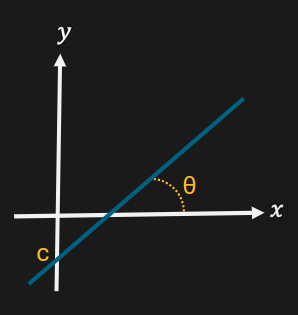
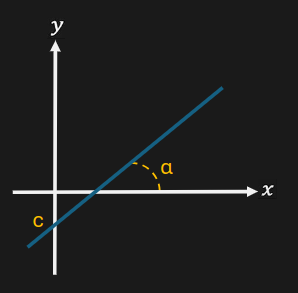
final

diff --git a/src/index.md b/src/index.md
@@ -38,19 +38,47 @@ Uma possível solução seria detectar as linhas presentes nessas bordas. A part
 
 ## Compreendendo a ideia: o pulo do gato!
 
-Para compreender como detectar retas em uma imagem, é útil revisitar o seu conceito matemático. Uma reta pode ser representada pela equação $y=mx+c$, onde $y$ e $x$ representam as coordenadas de um ponto na reta, $m$ é o coeficiente angular $\tan{(\theta)}$, e $c$ é o coeficiente linear (indicando onde ela intercepta o eixo $y$).
+Para compreender como detectar retas em uma imagem, é útil revisitar o seu conceito matemático. Uma reta pode ser representada pela equação $y=mx+c$, onde $y$ e $x$ representam as coordenadas de um ponto na reta, $m$ é o coeficiente angular $\tan{(\alpha)}$, e $c$ é o coeficiente linear (indicando onde ela intercepta o eixo $y$).
 
 ![](equacao1grau.png)
 
 Essa equação nos capacita a descrever qualquer reta (ou quase todas) em um plano cartesiano, o que se revela especialmente útil em imagens, já que uma imagem digital geralmente é representada por uma matriz, ou seja, um plano cartesiano, no qual cada pixel (ponto) possui coordenadas $x$ e $y$.
+
+
+??? Checkpoint
+Ter o conceito de retas e como representa-las em um plano cartesiano é especialmente útil na Transformada de Hough. Represente uma reta no plano cartesiano cujo os parâmetros $m$ e $c$ são 2 e -1, respectivamente.
+
+![](planocartesiano.png)
+
+::: Gabarito
+
+
+![](planocartesianoresposta.png)
+
+:::
+???
+
+??? Checkpoint
+
+Agora faça o inverso, tendo a reta a abaixo, determine os parâmetros $m$ e $c$.
+
+![](planocartesianopergunta.png)
+
+::: Gabarito
+
+$m=-0.75$
+
+$c=2$ 
+ 
+:::
+???
+
 
 Tá mas, por que isso é últil na Transformada de Hough? E antes disso, no que consiste uma transformada?
 
 Uma transformada basicamente consiste em passar uma função matemática de um domínio para outro. De maneira mais simplória, **uma transformada é um jeito de olhar para as coisas de uma nova perspectiva**. Imagine que você tem uma função (como uma equação matemática) que descreve algo em um espaço, como pontos em uma imagem. Agora, aplicar uma transformada significa pegar essa função e mudar a forma como a representamos, levando-a para um novo espaço. Isso nos permite ver coisas que talvez não fossem óbvias na forma original.
 
 A transformada de Hough faz exatamente isso! Mas com um objetivo específico: **encontrar padrões lineares em uma imagem**, como formas geométricas (no nosso caso, retas). Em vez de olhar diretamente para os pixels da imagem, a transformada de Hough mapeia esses pixels para um espaço de parâmetros, passando de $y=mx+c$ para $c=-mx+y$, onde podemos identificar padrões lineares mais facilmente.
-
-
 
 
 ??? Checkpoint
@@ -65,11 +93,11 @@ Infinitas retas passam por um ponto no plano cartesiano.
 :::
 ???
 
-
+Agora que relembramos que infitas retas passam por um ponto no plano cartesiano, vamos tentar representar elas em um novo espaço, que seja mais fácil identificar padrões e recorrências entre retas de uma imagem. A ideia do Espaço de Hough é utilizar um plano cartesiano com os parâmetros $m$ e $c$, os quais são as abissas e ordenadas, respectivamente. Para fazer essa passagem utilizamos a equação parametrizada $c=-mx+y$ citada anteriormente.
 
 
 ??? Checkpoint
-Escolha arbitrariamente, 3 retas que passam pelo ponto (2,1) e, com os parâmetros da respectiva reta ($m$, $c$), represente-a como um ponto no domínio da transformada.
+Escolha arbitrariamente, 3 retas que passam pelo ponto (2,1) e, com os parâmetros da respectiva reta ($m$, $c$), represente-a como um ponto no novo espaço.
 
 ![](graficos/ex2.png)
 
@@ -95,7 +123,15 @@ Agora represente as infinitas retas que passam pelo pontono (2,1) no domínio da
 :::
 ???
 
-Okay, espero que tenha ficado claro o que um representa no outro e vice-versa, mas onde identificamos os padrões que a transformada promete?
+Okay, vamos fazer um pequeno checkup do que pode ser percebido nas atividades anteriores:
+
+1. Infinitas retas passam por um ponto no plano cartesiano.
+
+2. Cada reta que passa por um ponto do domínio original, pode ser representada como um ponto no domínio da transformada.
+
+3. Uma reta no domínio da transformada representa as infitas retas que passam pelo respectivo ponto no domínio original.
+
+Mas onde identificamos os padrões?
 
 ??? Checkpoint
 
@@ -109,34 +145,39 @@ Represente os dois pontos do gráfico abaixo no domínio da trasformada.
 
 :animacao_2pontos_1
 
-As retas se cruzam, mas afinal, o que isso significa?
-
 :::
 ???
 
 ??? Checkpoint
 
-Encontre o respecitvo ponto ($m$, $c$) em que as retas no domínio da transformada se cruzam e utilize esses parâmetros para desenhar uma reta na imagem original. Interprete o resultado obtido.
+Encontre o respecitvo ponto ($m$, $c$) em que as retas no domínio da transformada se cruzam e utilize esses parâmetros para desenhar uma reta na imagem original. Qual o significado desses parâmetros?
 
 ::: Gabarito
 
 :animacao_2pontos_2
 
-Quando passamos um ponto da imagem para o novo domínio, essa reta representa infinitas retas que passam pelo respectivo ponto na imagem original. 
-Quando duas retas no domínio dos parâmetros se cruzam, isso significa que os dois pontos correspondentes na imagem original estão conectados por uma reta com os parâmetros $m$ e $c$, os quais são a coordenada da interesecção no gráfico da transformada.
+Esses parâmetros representam a reta que liga os dois pontos na imagem original.
+
 
 :::
 ???
+
+Calma, vamos repirar e refletir o que aconteceu...
+
+Quando passamos um ponto da imagem para o novo domínio, essa reta representa infinitas retas que passam pelo respectivo ponto na imagem original. 
+Quando duas retas no domínio dos parâmetros se cruzam, isso significa que os dois pontos correspondentes na imagem original estão conectados por uma reta com os parâmetros $m$ e $c$, os quais são a coordenada da interesecção no gráfico da transformada.
 
 Okay, você encontrou uma reta que liga dois pontos, mas em uma imagem real há inúmeros, muitos deles (na verdade a maioria) desalinhados, o que significa que há inúmeras retas ligando pontos em uma imagem real, e aqui surge outro problema, como determinamos as retas mais relevantes de uma imagem utilizando a transformada?
 
 ??? Checkpoint
 
-O carrossel abaixo mostra a transformada de um conjunto de pontos.
+O carrossel abaixo mostra a Transformada de Hough em um conjunto de pontos.
 
 :animacao_t_retas_deslocado
 
-Interpete a transformada dos pontos acima, e, utilizando o gráfico do novo domínio, justifique qual é a reta mais relevante para o conjunto.
+Utilizando o gráfico do novo domínio, justifique qual é a reta mais relevante para o conjunto.
+
+**OBS:** Considere a reta mais relevante, aquela mais recorrente entre os pixels da imagem original.
 
 
 ::: Gabarito
@@ -199,7 +240,20 @@ Com a aplicação desta matriz, as cordenadas com maior valor apresentam os valo
 
 ## Problema prático dos parâmetros ($m$, $c$)
 
-A implementação mencionada parece correta em teoria, mas pode enfrentar dificuldades na prática. Isso se deve ao uso de parametrização com os parâmetros $m$ e $c$, que pode não lidar adequadamente com retas verticais. Isso ocorre porque **essa parametrização não permite a descrição de retas verticais**, onde o ângulo com a horizontal é 90°. Assim, essa abordagem não é a mais adequada em aplicações práticas.
+A implementação mencionada parece correta em teoria, mas pode enfrentar dificuldades na prática. Isso se deve ao uso de parametrização com os parâmetros $m$ e $c$. 
+
+??? Checkpoint
+
+Considerando a parametrização $c=-mx+y$, existe algum tipo de reta que ela não pode representar?
+
+**Dica:** relembre que $m$ é $\tan{(\alpha)}$ e que a tangente de $\alpha$ não é definida para alguns valores de $\alpha$.
+
+::: Gabarito
+
+Esta parametrização pode não lidar adequadamente com retas verticais. Isso ocorre porque **ela não permite a descrição de retas onde o ângulo com a horizontal é 90°**. Assim, essa abordagem não é a mais adequada em aplicações práticas, pois em uma imagem podemos ter um pixel exatamente na mesma coluna que o outro.
+
+:::
+???
 
 
 ## Uma possível solução: a mágica da parametrização polar
@@ -220,27 +274,13 @@ Antes de prosseguir, entre [neste link](https://www.geogebra.org/m/xzkd8ffg) do 
 
 Certo, mas como funciona usando essa parametrização? Ora, da mesma maneira que na primeira parametrização, mas ao invés de passarmos os pontos de uma imagem para o domínio ($m$, $c$), passaremos para o domínio ($θ$, $ρ$). Ou seja, de $y=mx+c$ para $\rho =-x\sin(\theta) + y\cos(\theta)$.
 
-??? Checkpoint
+Assim como foi feito na primeira parametrização, a representação de um ponto da imagem no novo domínio ($θ$, $ρ$) é feita usando suas cooredeanadas $x$ e $y$ como constantes. Explore mais neste [exemplo do GeoGebra](https://www.geogebra.org/m/zc4akab8). 
 
-Como foi  feito na primeira transformada, tente imaginar como seria a representação de um ponto da imagem no novo domínio ($θ$, $ρ$), usando suas cooredeanadas $x$ e $y$ como constantes. Se possível pegue um papel e uma caneta e desenhe um gráfico.
-
-![](exemplo_senoides/1.png)
-
-::: Gabarito
-
-![](exemplo_senoides/2.png)
-
-Um ponto do domínio das coordendas é representado por uma senóide no domínio dos novos parâmetros!
-
-Essa senóide representa o universo das infinitas retas que passam pelo respectivo ponto na imagem original.
-
-:::
-???
-
+:exemplo_senoides1
 
 ??? Checkpoint
 
-De acordo com que transportamos os pontos da imagem para o novo domínio, as senóides podem se cruzar. O que isso significa?
+Conforme transportamos os pontos da imagem para o novo domínio, as senóides podem se cruzar. O que isso significa? Procure entender melhor neste [exemplo do GeoGebra](https://www.geogebra.org/m/uv9dkkar) como auxílio.
 
 ![](exemplo_senoides/3.png)
 
@@ -282,7 +322,3 @@ A complexidade do algorítmo é $O(n*m)$, onde $n$ é o número de pixels do con
 :::
 
 ???
-
-## Exercícios
-
-PROXIMA ENTREGA
